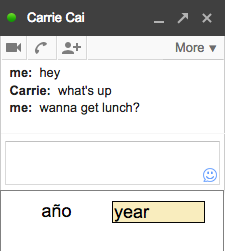
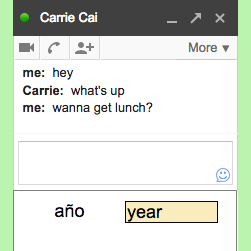
fixed formatting

diff --git a/index.html b/index.html
@@ -23,21 +23,16 @@
 	  <div class="container-fluid">
 	    <div class="navbar-header">
 	      <button type="button" class="navbar-toggle collapsed" data-toggle="collapse" data-target="#bs-example-navbar-collapse-1">
-	        <span class="sr-only">Toggle navigation</span>
-	        <span class="icon-bar"></span>
-	        <span class="icon-bar"></span>
-	        <span class="icon-bar"></span>
 	      </button>
 	      <a class="navbar-brand" href="#">WaitChatter </a>
 	    </div>
 
 	    <div class="collapse navbar-collapse" id="bs-example-navbar-collapse-1">
-	    	<img 
-             src="assets/waitchatter-icon48.png"></img>
-	      <ul class="nav navbar-nav navbar-right">
-	        <li><a href="#about">About</a></li>
-	        <li><a href="#help">Help</a></li>
-	      </ul>
+	    	<img class="icon" src="assets/waitchatter-icon48.png"></img>
+	      	<ul class="nav navbar-nav navbar-right">
+	        	<li><a href="#about">About</a></li>
+	        	<li><a href="#help">Help</a></li>
+	     	 </ul>
 	    </div>
 	  </div>
 	</nav>
@@ -66,7 +61,7 @@
 				<img class="installimg" src="assets/instructions-2.png">
 			</div>
 			<div class="col-md-4">
-				<p>3. <b>Click on the chat bubble icon</b> on the right end of the URL box to track your progress and set your language.</p>
+				<p>3. <b>Click on the chat bubble icon</b> on the right end of the URL box to track your progress and set your language (to French or Spanish).</p>
 				<img class="installimg" src="assets/instructions-popup.png">
 			</div>
 			
@@ -76,22 +71,27 @@
 	</div>
 
 	<a name="about"></a>
-	<div class="jumbotron">
+	<div class="jumbotron divider">
 
 		<h2>About WaitChatter</h2><br/>
-		<p><b>Wait-Learning</b></p>
+		<h3>FAQ</h3>  
+		<p><b>What is <span class="terminology">wait-learning</span>?</b></p>
 		<p>People often want to learn a language but can't find time. WaitChatter is based on the idea of <span class="terminology">wait-learning</span>. It makes use of time you spend waiting for your IM buddy to respond to teach you a foreign language. <br/><br/>
 		<p><b>What language does WaitChatter teach?</b></p>
 		<p>WaitChatter currently teaches basic vocabulary in Spanish and French, and assumes your native language is English, but we hope to support other languages in the future.</p>
 		<br/>
 		<p><b>What information does WaitChatter access?</b></p>
 		<p>For your privacy, this public version of WaitChatter does not pull any vocabulary words from your chat conversations, and does not log any content from your chats. It does track how many times you answer the learning exercises and what vocabulary words you have answered correctly so that it can select the best word to quiz you on next.</p><br/>
-		<p><b>Publications</b></p>  		
+		<br>
+		<br>
+		<h3>Publications</h3>  		
   		<p>Read more about WaitChatter in our published paper: <br/><br/>
   			<a href="http://people.csail.mit.edu/ccai/publications/Cai_WaitLearningFull.pdf" target="_blank">Wait-Learning: Leveraging Wait Time for Second Language Acquisition</a><br/>
   			Carrie J. Cai, Philip J. Guo, James R. Glass, and Robert C. Miller.<br/>
   			ACM Conference on Human Factors in Computing Systems (CHI) 2015</p><br/>
-		<p><b>Contact</b></p>
+		<br>
+		<br>
+		<h3>Contact</h3>  
   		<p>WaitChatter was built by <a href="http://people.csail.mit.edu/ccai/" target="_blank">Carrie Cai</a> and is part of ongoing research in the <a href="https://groups.csail.mit.edu/uid" target="_blank">User Interface Design group</a> at <a href="https://www.csail.mit.edu" target="_blank">MIT CSAIL</a>.</p>
   		<p>Please email <a href="mailto:waitchatter@csail.mit.edu">waitchatter@csail.mit.edu</a> with any questions or concerns. If you would like to be informed of future improvements to WaitChatter, <a href="https://docs.google.com/forms/d/1ZBUjyeCRcEg0nkjdl2cZerKunTdXvh_cXXuIxsVLDlc/viewform" target="_blank">sign up here</a>.</p>
 	</div>
@@ -109,19 +109,26 @@
 		<br/>
 		<p>3) Is your chatbox maximized ("popped out" of the screen)? 
 		WaitChatter only works on chatboxes that haven't been maximized.</p><br/>
+		<br>
+		<br>
 		<p><b>WaitChatter's keyboard shortcut (⌘J or Alt-J) isn't working.</b></p>
 		<p>You might have an outdated version of WaitChatter or multiple WaitChatter extensions. First, go to chrome://extensions by typing it into your url box. In the bottom right corner of the page, click "Keyboard shortcuts." Focus into this box, then hit ⌘J (Mac) or Alt-J (Windows/Linux) on your keyboard.</p>
 		<img src="assets/help-shortcut.png"></img></p><br/>
+		<br>
+		<br>
 		<p><b>"Click to learn" isn't triggering a learning exercise.</b></p>
 		<p>To avoid distracting you, WaitChatter prevents exercises from triggering in multiple chatboxes, so you might already have another active exercise in another chatbox. If that's not the case, refreshing the page may fix the problem.</p><br/>
 		<a name="helpprogress"></a>
+		<br>
+		<br>
 		<p><b>How can I see my vocabulary progress or set the language to learn?</b></p>
 		<p>Click on the chat bubble icon in your Chrome browser on the right end of the URL box.
-		<img src="assets/help-progress.png"></img></p><br/>
+		</p><br/>
+		<img src="assets/help-progress.png"></img>
 
 
 	</div>
-	<div class="jumbotron">
+	<div class="jumbotron divider small-text">
 	<p>This site was built by <a href="http://anjren.com" target="_blank">Anji Ren</a> and <a href="http://people.csail.mit.edu/ccai/" target="_blank">Carrie Cai</a>.</p>
 </div>
 </body>

diff --git a/css/main.css b/css/main.css
@@ -14,14 +14,24 @@ body {
 	padding: 48px 96px;
 }
 
-.navbar-brand {
+.navbar-default .navbar-brand {
 	font-family: 'Roboto';
 	font-style: italic;
 	letter-spacing: 1px;
+	padding-left: 50px;
+	color: white;
 }
 
+.navbar-default .navbar-nav>li>a {
+	color: white;
+	size: 2em;
+}
+
+.icon {
+	padding-top: 5px;
+}
 .navbar-default {
-	background-color: #acd8fb;
+	background-color: #2196f3;
 }
 
 .header {
@@ -48,6 +58,15 @@ body {
 	margin: auto;
 }
 
-.terminology{
+.terminology {
 	font-style: italic;
+}
+
+.help-question {
+	size: 1.5em;
+	font-style: italic;
+}
+
+.small-text {
+	size: 10px;
 }
